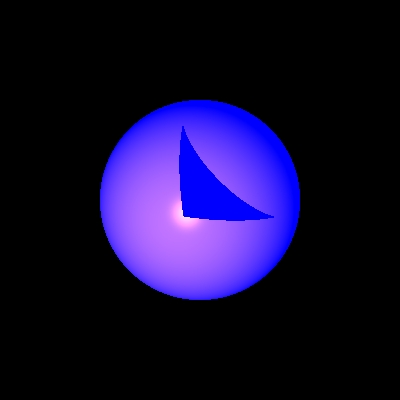
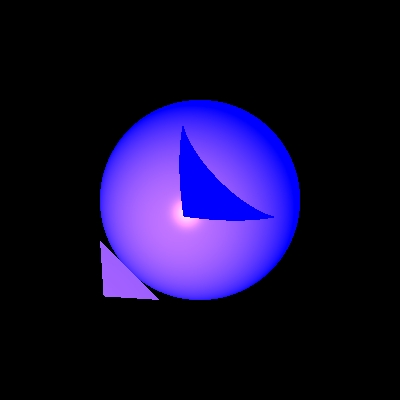
Depth of filed

Changed region(s): [[0.24, 0.6, 0.39, 0.75]]

diff --git a/src/unittests/CreateImage.java b/src/unittests/CreateImage.java
@@ -49,7 +49,7 @@ public class CreateImage {
 	@Test
 	public void ourImage() {
 		Scene scene = new Scene("createImage");
-		scene.setCamera(new Camera(new Point3D(0, 0, -1000), new Vector(0, 0, 1), new Vector(0, -1, 0)));
+		scene.setCamera(new Camera(new Point3D(0, 0, -1000), new Vector(0, 0, 1), new Vector(0, -1, 0),10,0.04,10));
 		scene.setDistance(1000);
 		scene.setBackground(Color.BLACK);
 		scene.setAmbientLight(new AmbientLight(new Color(132, 124, 65), 0));
@@ -88,8 +88,9 @@ public class CreateImage {
 		scene.addLights(new DirectionalLight(new Color(48, 170, 176), new Vector(0, -1, 2)),
 				new PointLight(new Color(103, 110, 13), new Point3D(0, -100, 0), 1, 0, 0));
 
-		ImageWriter imageWriter = new ImageWriter("magenDavid", 250, 250, 500, 500);
+		ImageWriter imageWriter = new ImageWriter("magenDavid_s", 250, 250, 500, 500);
 		Render render = new Render(imageWriter, scene);
+	
 
 		render.renderImage();
 		render.writeToImage();

diff --git a/src/elements/Camera.java b/src/elements/Camera.java
@@ -18,7 +18,7 @@ public class Camera {
 	private Vector vTo;
 	private Vector vUp;
 	private Vector vRight;
-	private double focalDistance;
+	private double focalDistance=10;
 	private double aperture;
 	private int numOfRays;
 	private static final Random RAND = new Random();
@@ -60,7 +60,7 @@ public class Camera {
 	public List<Ray> constructbeamOfRaysThroughPixels(int nX, int nY, int j, int i, double screenDistance,
 			double screenWidth, double screenHeight) {
 		List<Ray> result = new LinkedList<Ray>();
-		Point3D pij = getViewPlanePoint(nX, nY, j, i, screenDistance, screenWidth, screenHeight);
+		Point3D pij = getViewPlanePoint(nX, nY, j, i, screenDistance*0.7, screenWidth*0.7, screenHeight*0.7);
 		Vector vToFocal = pij.subtract(p0).normalize();
 		// add to list the ray through pixel i,j from view plane
 		result.add(new Ray(pij, vToFocal));

diff --git a/src/renderer/Render.java b/src/renderer/Render.java
@@ -1,7 +1,6 @@
 package renderer;
 
 import java.util.List;
-
 import primitives.*;
 import elements.*;
 import scene.*;
@@ -105,9 +104,10 @@ public class Render {
 		GeoPoint closestPoint;
 		Color sumColor;
 		for (int i = 0; i < Ny; i++) {
+			System.out.println(i);
 			for (int j = 0; j < Nx; j++) {
 				rays = camera.constructbeamOfRaysThroughPixels(Nx, Ny, j, i, scene.getDistance(), width, height);
-				sumColor = Color.BLACK;// initilaiaze to (0,0,0).
+				sumColor = Color.BLACK;//initila
 				for (Ray ray : rays) {
 					closestPoint = findClosestIntersection(ray);
 					Color color = closestPoint == null ? backgroundColor : calcColor(closestPoint, ray);
